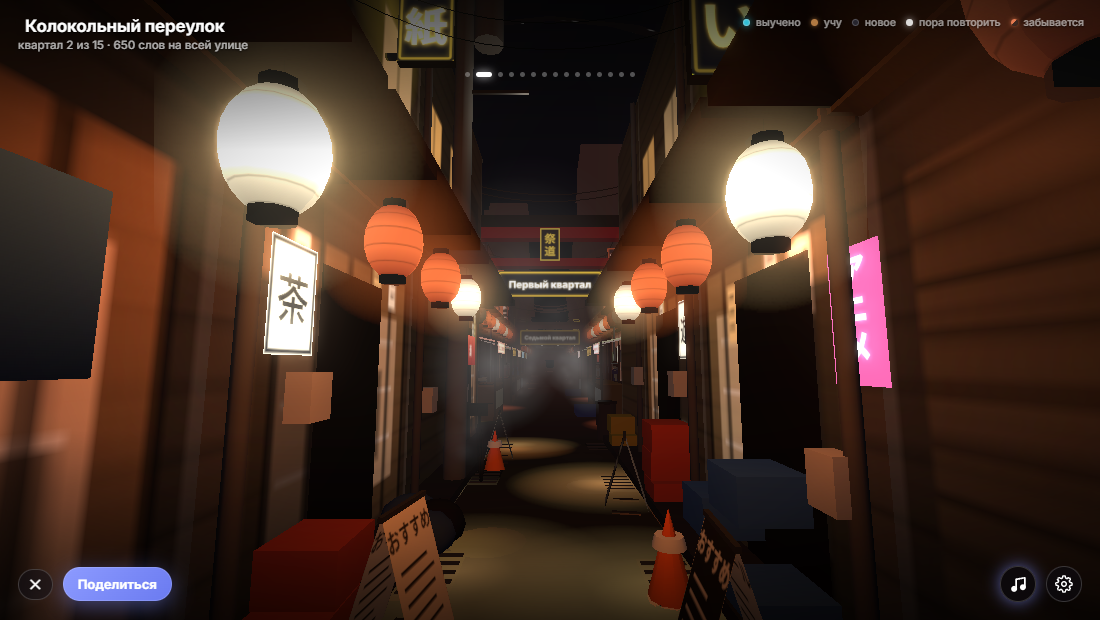
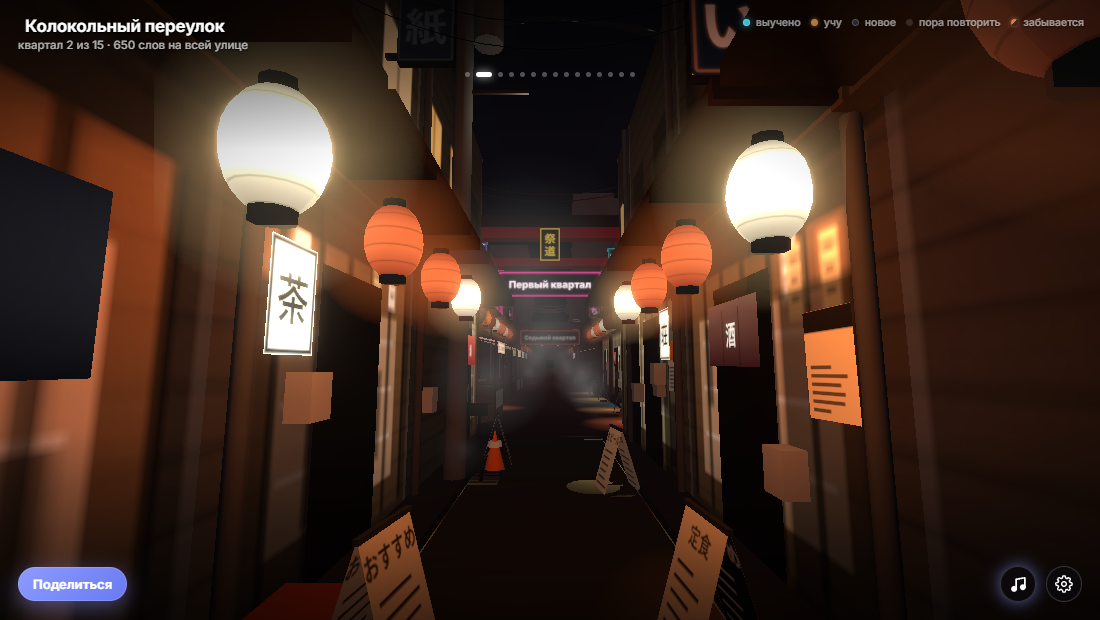
v0.0.669: Улица — балконы не залезают на вывески

diff --git a/street/walk.html b/street/walk.html
@@ -5211,9 +5211,11 @@ function decorateBuilding(side, b, z, len, rnd) {
     if (!posterAtlas) { const ar = mulberry32(hashStr(th.id) + 5); posterAtlas = makeAtlas(32, 64, 90, () => texPoster(ar)); }
     for (let i = 0; i < np; i++) { const p = posterAtlas.plane(0.45, 0.64, rnd); p.position.set(inward(0.015 + i * 0.006), 1.55 + (i % 2) * 0.4 + rnd() * 0.1, z - 0.5 - i * 0.7 - rnd() * 0.15); p.rotation.y = -side * Math.PI / 2; p.rotation.z = (rnd() - 0.5) * 0.06; world.add(p); }
     // балконы и бельё (верхние этажи)
-    if (b.floors > 2 && rnd() < (th.id === 'yokocho' ? 0.3 : 0.55)) {
-        const fl = 1 + Math.floor(rnd() * (b.floors - 1));
-        const bw = Math.min(len - 0.6, 1.6 + rnd() * 2.2), bz = z - 0.3 - rnd() * Math.max(0.1, len - bw - 0.6) - bw / 2;
+    // балкон не ставим туда, где на этой стене висит вывеска (раньше вывеска «влезала» в балкон)
+    const signClash = (fl0, bz0, bw0) => { const y0 = fl0 * th.floorH - 0.2, y1 = fl0 * th.floorH + 1.7; return blocks.some((bk) => bk.signs.some((s) => { if (s.side !== side || s.isProp) return false; const sz0 = s.kind === 'vsign' ? s.z - 0.45 : s.z - (s.len || 0.6) - 0.2, sz1 = s.kind === 'vsign' ? s.z + 0.45 : s.z + 0.2; const sy0 = s.y0 != null ? s.y0 : (s.y || 0) - 0.5, sy1 = s.y1 != null ? s.y1 : sy0 + (s.hh || 1); return sz1 > bz0 - bw0 / 2 && sz0 < bz0 + bw0 / 2 && sy1 > y0 && sy0 < y1; })); };
+    let fl = 0, bw = 0, bz = 0;
+    if (b.floors > 2 && rnd() < (th.id === 'yokocho' ? 0.3 : 0.55)) for (let tries = 0; tries < 4; tries++) { fl = 1 + Math.floor(rnd() * (b.floors - 1)); bw = Math.min(len - 0.6, 1.6 + rnd() * 2.2); bz = z - 0.3 - rnd() * Math.max(0.1, len - bw - 0.6) - bw / 2; if (!signClash(fl, bz, bw)) break; fl = 0; }
+    if (fl > 0) {
         const slab = new THREE.Mesh(new THREE.BoxGeometry(0.9, 0.1, bw), lamb(mix(b.color, '#ffffff', 0.06))); slab.position.set(inward(0.45), fl * th.floorH + 0.05, bz); world.add(slab);
         const rail = new THREE.Mesh(new THREE.BoxGeometry(0.04, 0.9, bw), lamb('#2a2a30')); rail.position.set(inward(0.88), fl * th.floorH + 0.55, bz); world.add(rail);
         for (let k = 0; k < Math.floor(bw / 0.25); k++) { const bar = new THREE.Mesh(new THREE.BoxGeometry(0.02, 0.9, 0.02), lamb('#3a3a44')); bar.position.set(inward(0.88), fl * th.floorH + 0.55, bz - bw / 2 + 0.12 + k * 0.25); world.add(bar); }

diff --git a/street/walk.js b/street/walk.js
@@ -1079,9 +1079,11 @@ function decorateBuilding(side, b, z, len, rnd) {
     if (!posterAtlas) { const ar = mulberry32(hashStr(th.id) + 5); posterAtlas = makeAtlas(32, 64, 90, () => texPoster(ar)); }
     for (let i = 0; i < np; i++) { const p = posterAtlas.plane(0.45, 0.64, rnd); p.position.set(inward(0.015 + i * 0.006), 1.55 + (i % 2) * 0.4 + rnd() * 0.1, z - 0.5 - i * 0.7 - rnd() * 0.15); p.rotation.y = -side * Math.PI / 2; p.rotation.z = (rnd() - 0.5) * 0.06; world.add(p); }
     // балконы и бельё (верхние этажи)
-    if (b.floors > 2 && rnd() < (th.id === 'yokocho' ? 0.3 : 0.55)) {
-        const fl = 1 + Math.floor(rnd() * (b.floors - 1));
-        const bw = Math.min(len - 0.6, 1.6 + rnd() * 2.2), bz = z - 0.3 - rnd() * Math.max(0.1, len - bw - 0.6) - bw / 2;
+    // балкон не ставим туда, где на этой стене висит вывеска (раньше вывеска «влезала» в балкон)
+    const signClash = (fl0, bz0, bw0) => { const y0 = fl0 * th.floorH - 0.2, y1 = fl0 * th.floorH + 1.7; return blocks.some((bk) => bk.signs.some((s) => { if (s.side !== side || s.isProp) return false; const sz0 = s.kind === 'vsign' ? s.z - 0.45 : s.z - (s.len || 0.6) - 0.2, sz1 = s.kind === 'vsign' ? s.z + 0.45 : s.z + 0.2; const sy0 = s.y0 != null ? s.y0 : (s.y || 0) - 0.5, sy1 = s.y1 != null ? s.y1 : sy0 + (s.hh || 1); return sz1 > bz0 - bw0 / 2 && sz0 < bz0 + bw0 / 2 && sy1 > y0 && sy0 < y1; })); };
+    let fl = 0, bw = 0, bz = 0;
+    if (b.floors > 2 && rnd() < (th.id === 'yokocho' ? 0.3 : 0.55)) for (let tries = 0; tries < 4; tries++) { fl = 1 + Math.floor(rnd() * (b.floors - 1)); bw = Math.min(len - 0.6, 1.6 + rnd() * 2.2); bz = z - 0.3 - rnd() * Math.max(0.1, len - bw - 0.6) - bw / 2; if (!signClash(fl, bz, bw)) break; fl = 0; }
+    if (fl > 0) {
         const slab = new THREE.Mesh(new THREE.BoxGeometry(0.9, 0.1, bw), lamb(mix(b.color, '#ffffff', 0.06))); slab.position.set(inward(0.45), fl * th.floorH + 0.05, bz); world.add(slab);
         const rail = new THREE.Mesh(new THREE.BoxGeometry(0.04, 0.9, bw), lamb('#2a2a30')); rail.position.set(inward(0.88), fl * th.floorH + 0.55, bz); world.add(rail);
         for (let k = 0; k < Math.floor(bw / 0.25); k++) { const bar = new THREE.Mesh(new THREE.BoxGeometry(0.02, 0.9, 0.02), lamb('#3a3a44')); bar.position.set(inward(0.88), fl * th.floorH + 0.55, bz - bw / 2 + 0.12 + k * 0.25); world.add(bar); }

diff --git a/service-worker.js b/service-worker.js
@@ -1,6 +1,6 @@
 // Пути относительные — SW живёт в /app/, поэтому './' указывает на /app/.
 // ВАЖНО: меняй номер версии при каждом деплое — иначе старый кеш не сбросится.
-const CACHE_NAME = 'animei-cache-v0.0.668';
+const CACHE_NAME = 'animei-cache-v0.0.669';
 // Полный список генерит deploy/build-pwa.mjs из содержимого dist (страницы,
 // css, js, libs; скрытая админка исключена) и подставляет сюда при сборке.
 // В исходнике — только app-shell: без сборки SW тоже работает, офлайн беднее.

diff --git a/js/app.js b/js/app.js
@@ -1,7 +1,7 @@
 // Версия приложения — единый источник. Бампится вместе с CACHE_NAME в
 // service-worker.js при каждом деплое (последнее число). Формат v0.0.N —
 // показывается в футере сайдбара, чтобы визуально валидировать, что деплой доехал.
-const APP_VERSION = 'v0.0.668';
+const APP_VERSION = 'v0.0.669';
 
 // Путь от корня приложения (/app/), одинаково работающий с главной и с
 // подстраниц /app/pages/*. Относительный путь, собранный без этой поправки,
